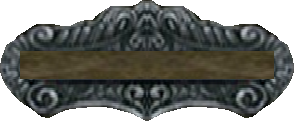
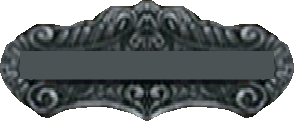
stamina altering progress

Changed region(s): [[0.0612, 0.4215, 0.949, 0.6694]]

diff --git a/js/Player.js b/js/Player.js
@@ -12,7 +12,8 @@ export default class Player extends MatterEntity {
         //x and y position based on game configs and adjusted for zoom: EX: ((height - (height/zoom))/2. ((640 - (640/1.4))/2 = 91.43 becomes the new (0,0).
         this.hp = new HealthBar(this.scene, 100, 100, this.health, this.maxHealth);
         //atempt to add in the stamina bar.
-        this.energy = new StaminaBar(this.scene, 200, 200, this.stamina, this.maxStamina);
+        this.energy = new StaminaBar(this.scene, 218, 100, this.stamina, this.maxStamina);
+
         this.attackFlag = false;
         this.walkingSwitch = false;
 
@@ -57,11 +58,10 @@ export default class Player extends MatterEntity {
 
         //running controls
         if(this.walkingSwitch === false) {
-            
+            this.staminaTimer = setInterval(this.changeRunEnergy, 1000)
             if(this.inputKeys.left.isDown) {
                 this.flipX = true;
-                playerVelocity.x = -runningSpeed;
-                this.staminaTimer = setInterval(this.changeRunEnergy, 1000)
+                playerVelocity.x = -runningSpeed;  
             } else if (this.inputKeys.right.isDown) {
                 this.flipX = false;
                 playerVelocity.x = runningSpeed;
@@ -92,7 +92,7 @@ export default class Player extends MatterEntity {
 
         //playerVelocity.scale(speed);
 
-        this.setVelocity(playerVelocity.x,playerVelocity.y);
+        this.setVelocity(playerVelocity.x, playerVelocity.y);
 
         if(this.inputKeys.space.isDown && playerVelocity.x === 0 && playerVelocity.y === 0) {
             this.anims.play('hero_attack', true);
@@ -113,24 +113,38 @@ export default class Player extends MatterEntity {
     
 
     changeRunEnergy = () => {
-        this.stamina--;
-        this.energy.modifyStamina(this.stamina);
+        if(this.walkingSwitch === false && (Math.abs(playerVelocity) === runningSpeed)){
+            this.stamina--;
+        }
+        if(this.walkingSwitch === true && (Math.abs(playerVelocity) === 0)){
+            this.stamina +=2;
+        }
+        if(this.walkingSwitch === true && (Math.abs(playerVelocity) === walkingSpeed)){
+            this.stamina ++;
+        }
+
         if(this.stamina <= 0){
             this.stamina = 0
         }
+        if(this.stamina >= this.maxStamina){
+            this.stamina = this.maxStamina
+        }
+
+        this.energy.modifyStamina(this.stamina);
+
         console.log(`Adjusting Stamina for player: ${this.stamina}/${this.maxStamina}`); 
     };
 
     startStaminaTimer() {
-        if (this.staminaTimer === undefined) {
+        if (this.staminaTimer == null) {
           this.staminaTimer = setInterval(this.changeRunEnergy, 1000)
         }
       }
       
-      stopStaminaTimer() {
-        if (this.staminaTimer !== undefined) {
+    stopStaminaTimer() {
+        if (this.staminaTimer !== null) {
           clearInterval(this.staminaTimer)
-          this.staminaTimer = undefined
+          this.staminaTimer = null
         }
       }
 

diff --git a/js/MainScene.js b/js/MainScene.js
@@ -24,6 +24,7 @@ export default class MainScene extends Phaser.Scene {
         this.load.audio('lightning', 'assets/audio/lightning.mp3');
         this.load.audio('rain', 'assets/audio/rain.mp3');
         this.load.image('Healthbarframe', 'assets/images/Healthbarframe.png');     
+        this.load.image('Staminabarframe', 'assets/images/Staminabarframe.png');  
     };
 
     create(){
@@ -47,7 +48,7 @@ export default class MainScene extends Phaser.Scene {
         Healthbarframelogo.setScale(.3);
         Healthbarframelogo.setScrollFactor(0);
 
-        const Staminabarframelogo = this.add.image(300, 300, 'Healthbarframe').setOrigin(0); 
+        const Staminabarframelogo = this.add.image(220, 102, 'Staminabarframe').setOrigin(0); 
         Staminabarframelogo.depth = 9;
         Staminabarframelogo.setScale(.3);
         Staminabarframelogo.setScrollFactor(0);

diff --git a/js/StaminaBar.js b/js/StaminaBar.js
@@ -5,7 +5,7 @@ export default class StaminaBar extends Phaser.Scene {
         this.bar = new Phaser.GameObjects.Graphics(scene);
         this.bar.depth = 10;
         this.bar.setScrollFactor(0,0);
-        this.text = new Phaser.GameObjects.Text(scene, 300, 300, ``, { fontFamily: 'Courier', fontSize: '24px', fill: '#000', resolution: 2});
+        this.text = new Phaser.GameObjects.Text(scene, 320, 114.25, ``, { fontFamily: 'Courier', fontSize: '12px', fill: '#000', resolution: 2});
         this.text.depth = 11;
         this.text.setScrollFactor(0,0);
         this.x = x;
